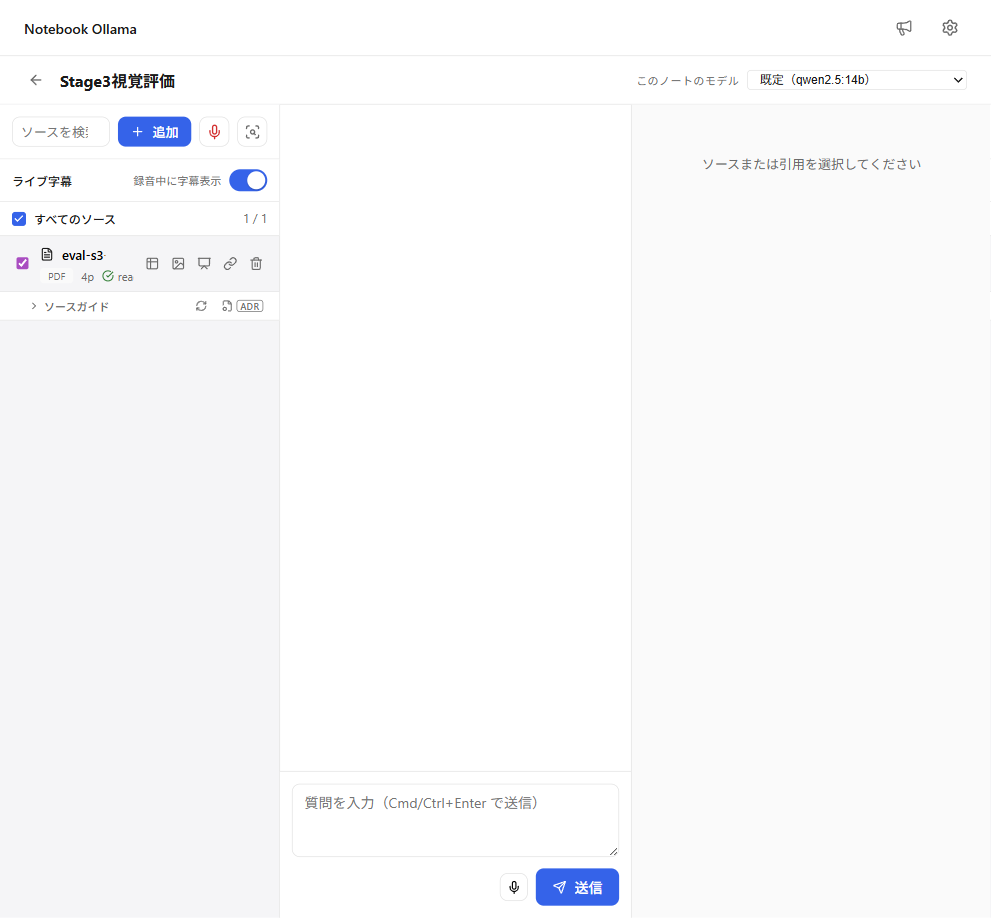
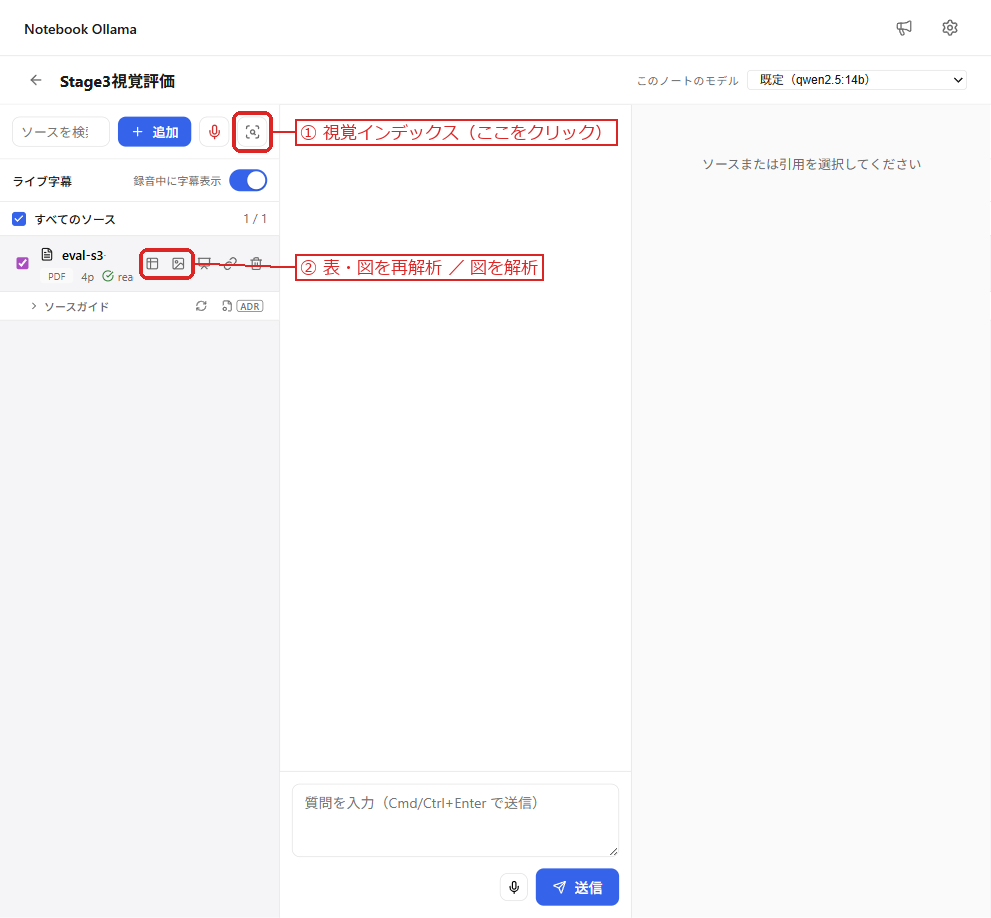
fix(web): 使い方ガイドのクリック位置を赤枠注記+具体的な場所説明で明示
実機FB(2026-07-26):「視覚インデックスのポップアップの出し方がStep 2から
分からない。スクリーンショットのどこを押せばいいのか具体的に明示してほしい」。

- source-icons.png に赤枠と番号を描き込み: ①視覚インデックスアイコン
  (「ここをクリック」ラベル付き)、②ソースカードの表・図解析アイコン
- Step 2/Step 3 の本文を赤枠番号参照+具体的な位置説明に書き換え:
  「ソース一覧最上部のツールバー(「＋追加」の並び)右端、マイクアイコンの
  すぐ右隣にある四角いスキャンマーク」をクリック→ポップアップが開く

実機ブラウザで描画検証済み。

Claude-Session: https://claude.ai/code/session_01DGKDvQt5YRTTYB1cc7y7FU

Changed region(s): [[0.2119, 0.122, 0.6054, 0.183], [0.2725, 0.2745, 0.5449, 0.305], [0.1211, 0.244, 0.2119, 0.305]]

diff --git a/apps/web/src/lib/components/settings/BetaFeaturesSection.svelte b/apps/web/src/lib/components/settings/BetaFeaturesSection.svelte
@@ -107,16 +107,21 @@
 
               <h4>Step 2. PDFを取り込み、表・図を解析する</h4>
               <p>
-                PDF取込時に表と図は自動抽出されます。既存ソースにはソースカードの
-                <strong>「表・図を再解析」</strong>（表アイコン）を、図の説明文生成には
-                <strong>「図を解析」</strong>（画像アイコン）を使います。
-                ソース一覧上部の<strong>視覚インデックス</strong>アイコン（スキャンマーク）から
-                ページ視覚検索の索引を構築できます。
+                PDF取込時に表と図は自動抽出されます。既存ソースに適用するには、
+                下のスクリーンショットの<strong>赤枠②</strong>
+                （ソースカードのタイトル右横のアイコン列・左から1番目と2番目）を使います:
+                表アイコンが<strong>「表・図を再解析」</strong>、
+                画像アイコンが<strong>「図を解析」</strong>（AIによる図説明の生成）です。
               </p>
-              <img src="/help/table-figure-rag/source-icons.png" alt="ソースカードのアイコン群とソース一覧上部の視覚インデックスアイコン" loading="lazy" />
+              <img src="/help/table-figure-rag/source-icons.png" alt="赤枠①がソース一覧上部の視覚インデックスアイコン、赤枠②がソースカードの表・図解析アイコン" loading="lazy" />
 
               <h4>Step 3. 視覚インデックスを構築する（任意・実験的）</h4>
               <p>
+                上のスクリーンショットの<strong>赤枠①</strong> —
+                ソース一覧<strong>最上部のツールバー（「＋追加」の並び）右端、
+                マイクアイコンのすぐ右隣にある四角いスキャンマーク</strong>をクリックすると、
+                視覚インデックスのポップアップが開きます（下図）。
+                「視覚インデックスを構築」ボタンで構築を開始してください。
                 視覚インデックスを構築すると、テキストにならない図版・レイアウトも
                 ページ画像として検索対象になります。構築はノートブック単位の手動実行で、
                 CPU実行では<strong>1ページあたり1〜2分</strong>かかります（進捗と残り時間目安を表示）。
